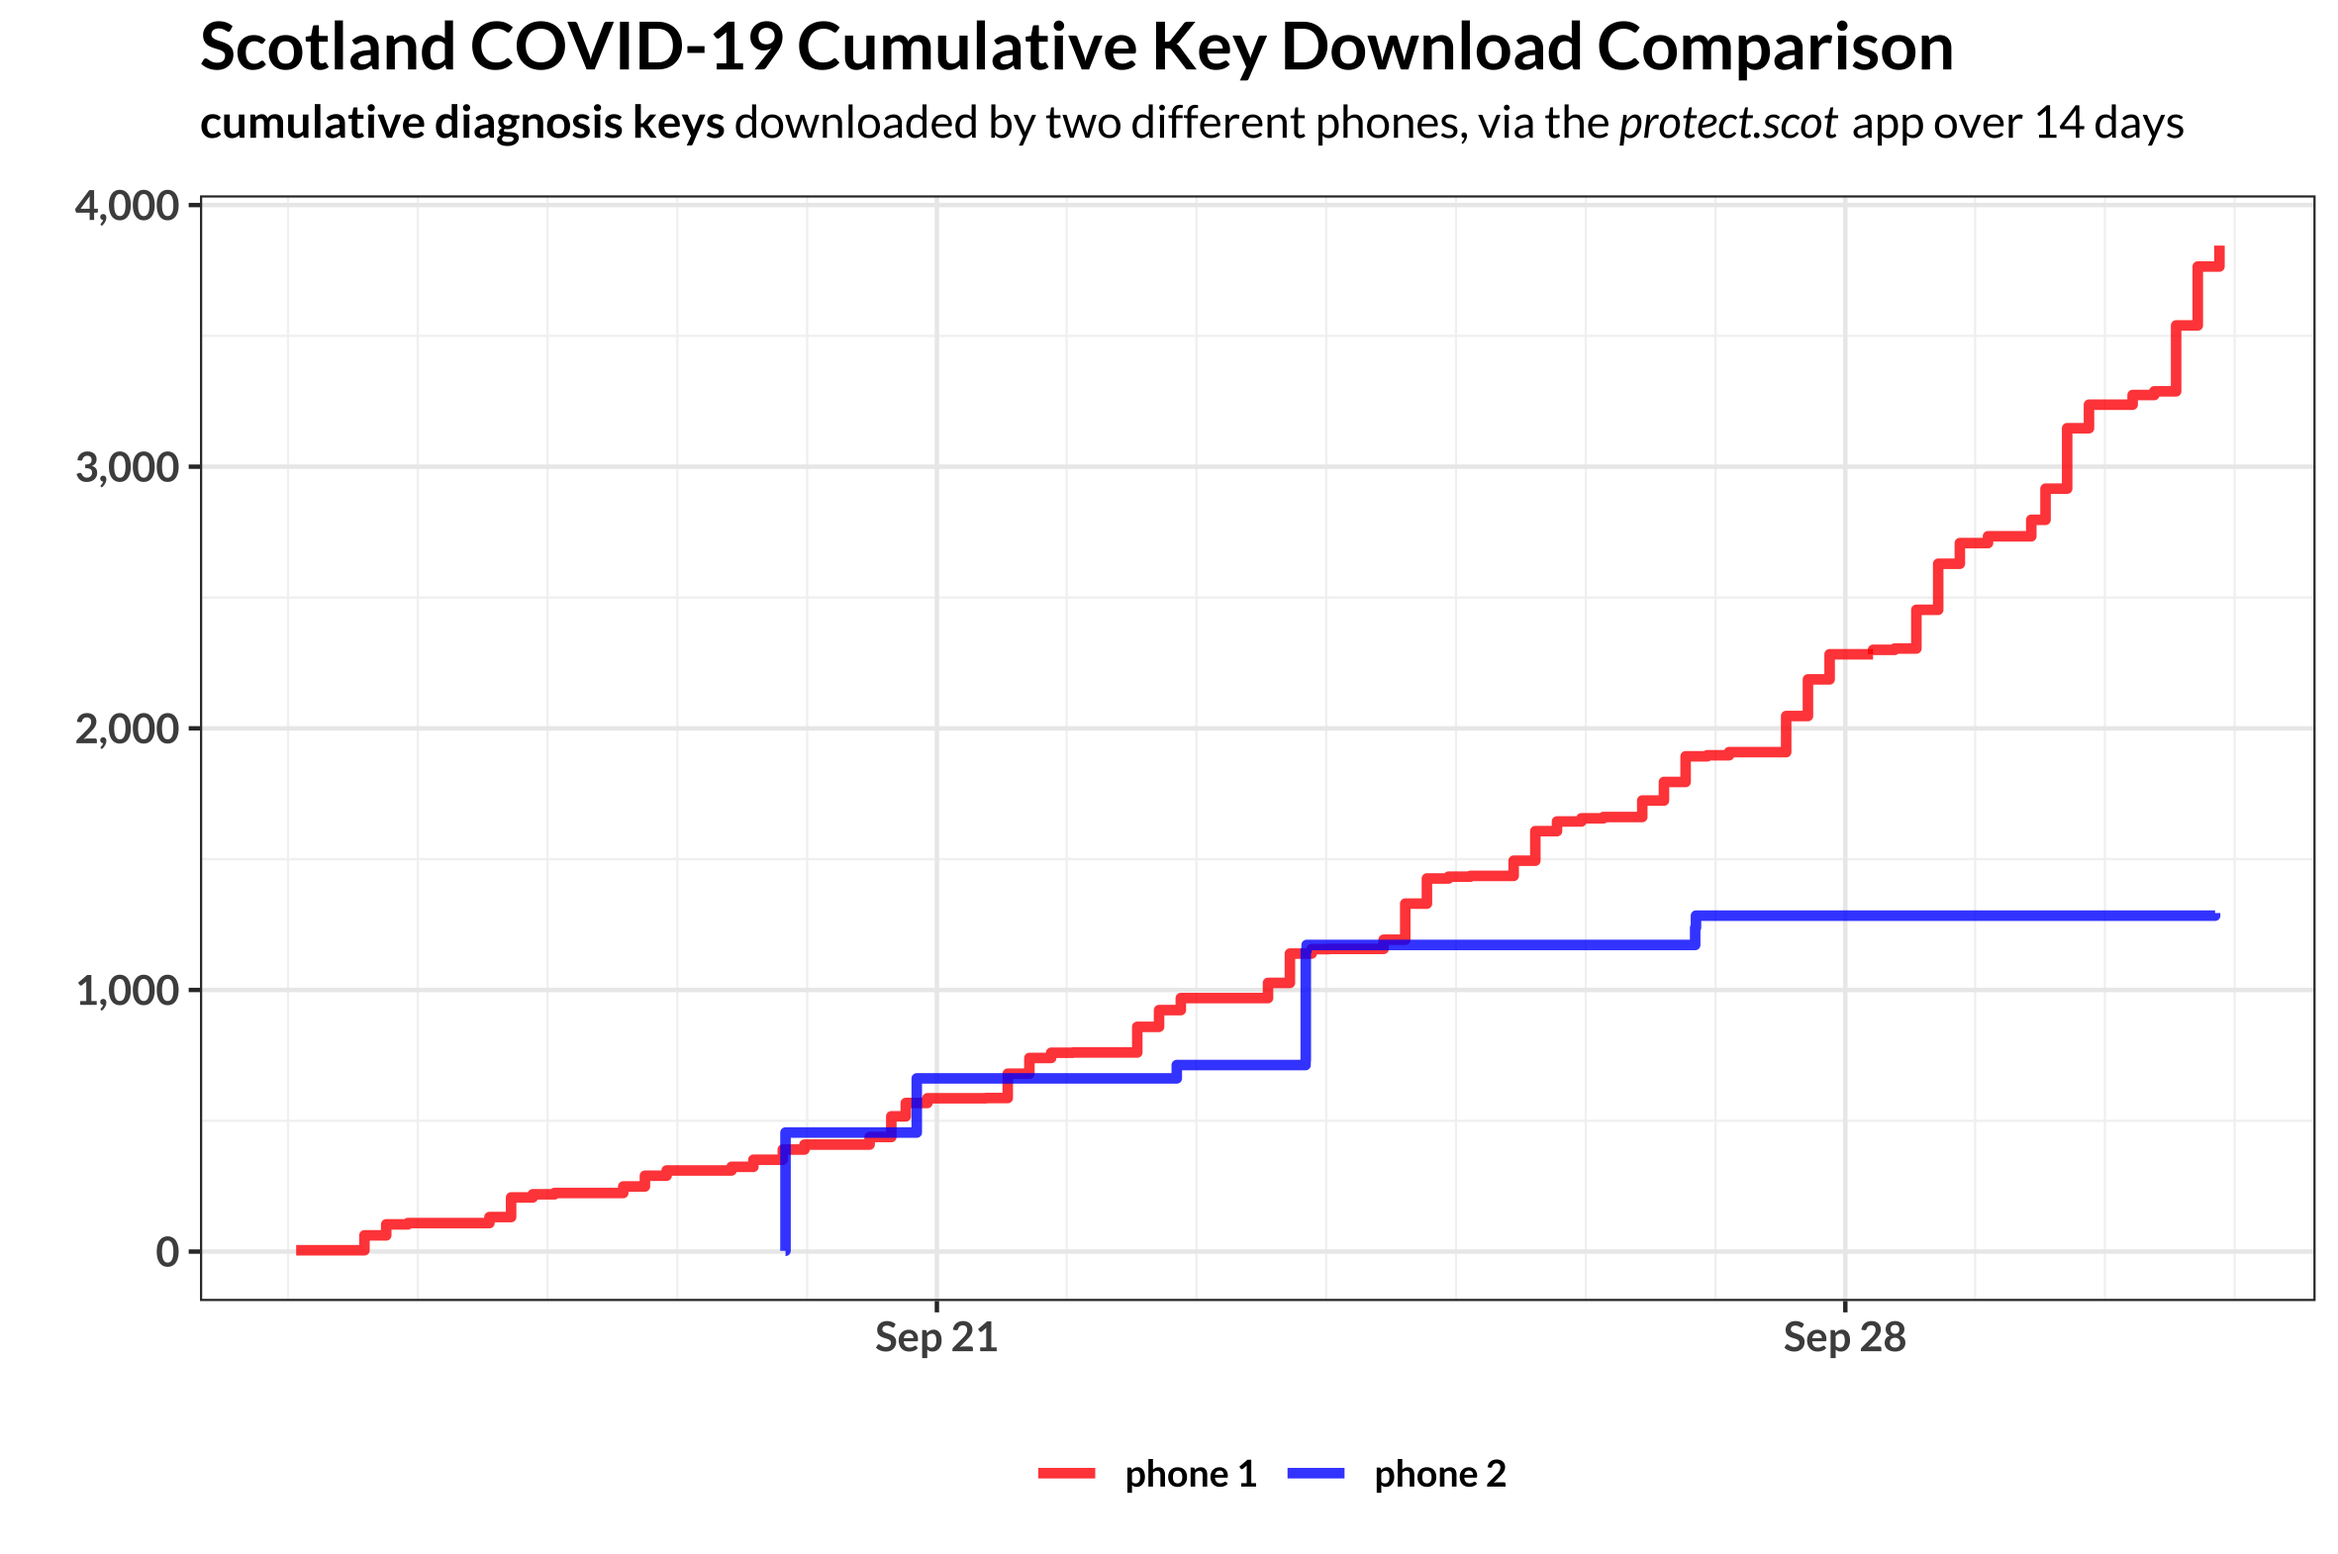
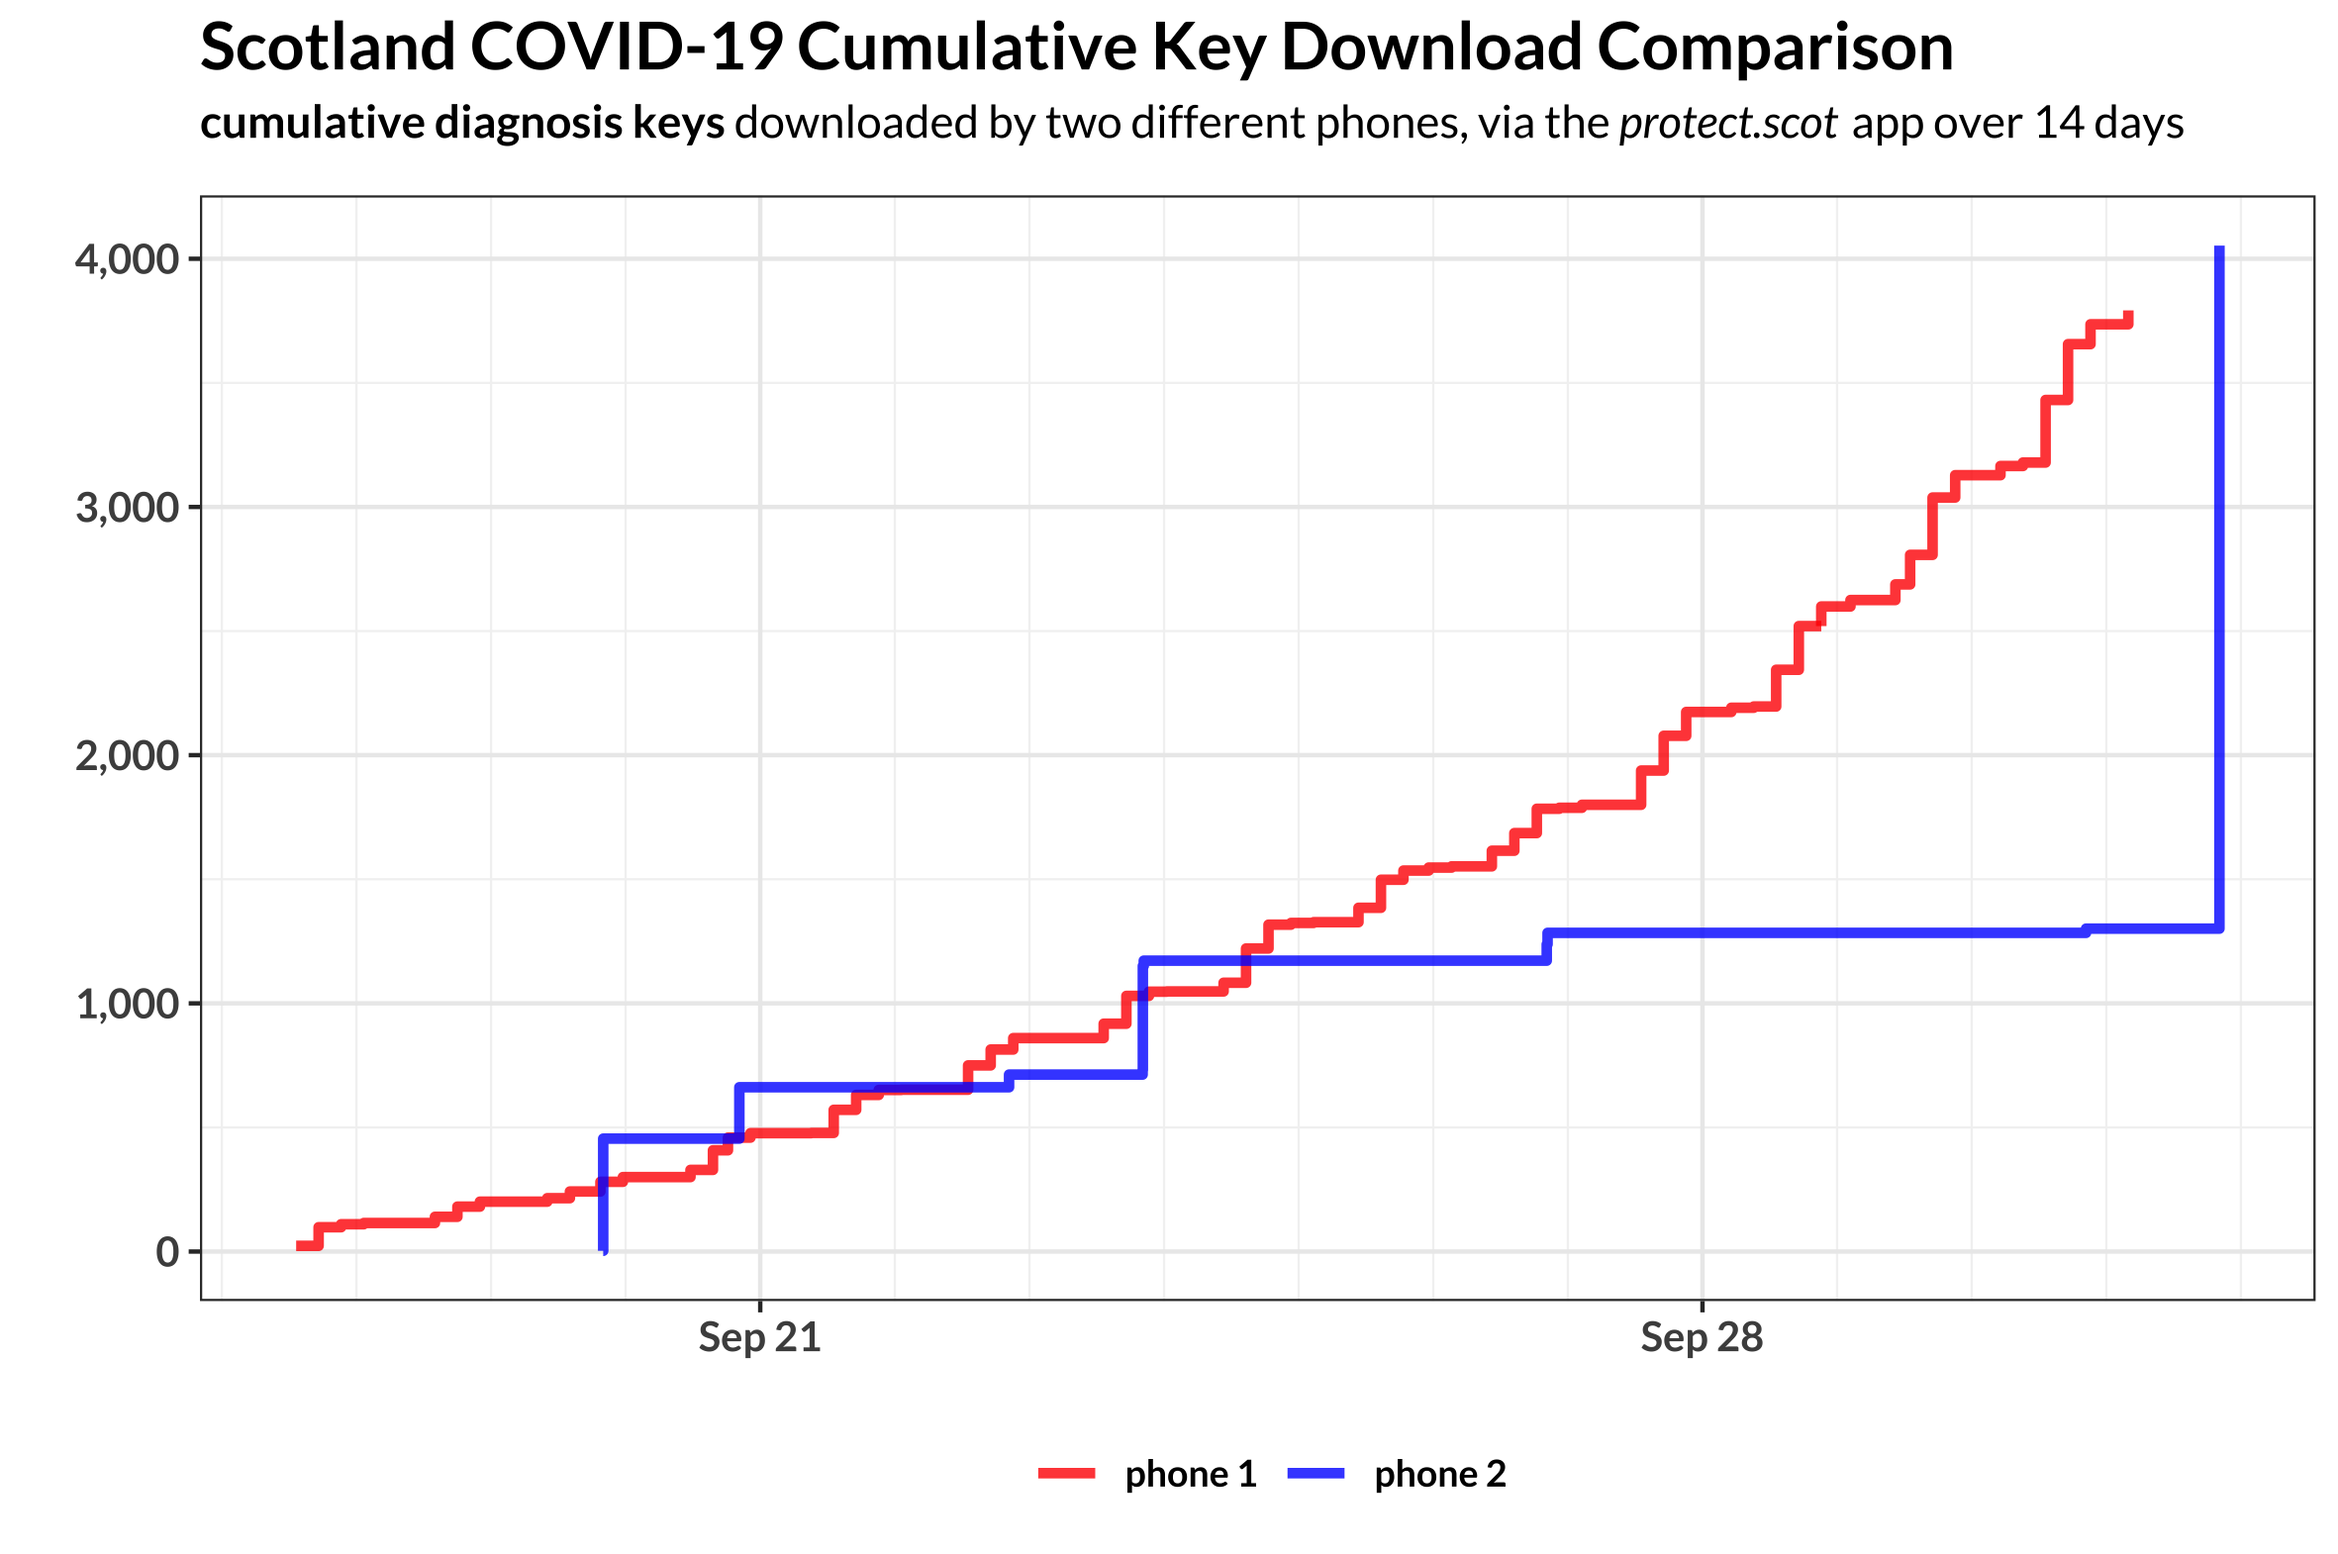
update

diff --git a/README.md b/README.md
@@ -45,7 +45,7 @@ Here we can see numbers of keys downloaded over time for two separate phones (wh
 
 ![](/pics/plot_new_two_phones.png)
 
-Looking at this cumulatively exposes the issue -- the owner of *phone 2* spends days at a time without downloading new keys. At the time these data files were exported the owner of *phone 2* has less than half the number of keys downloaded (compared to *phone 1*), and would not be notified of an exposure match until they had downloaded the relevant key.
+Looking at this cumulatively exposes the issue -- the owner of *phone 2* spends days at a time without downloading new keys. At the time these data files were exported the owner of *phone 2* recently had less than half the number of keys downloaded compared to *phone 1* (and would not be notified of an exposure match until they had downloaded a relevant key), but then suddenly caught up by dowloading over 2,500 keys at once.
 
 ![](/pics/plot_cum_two_phones.png)
 
